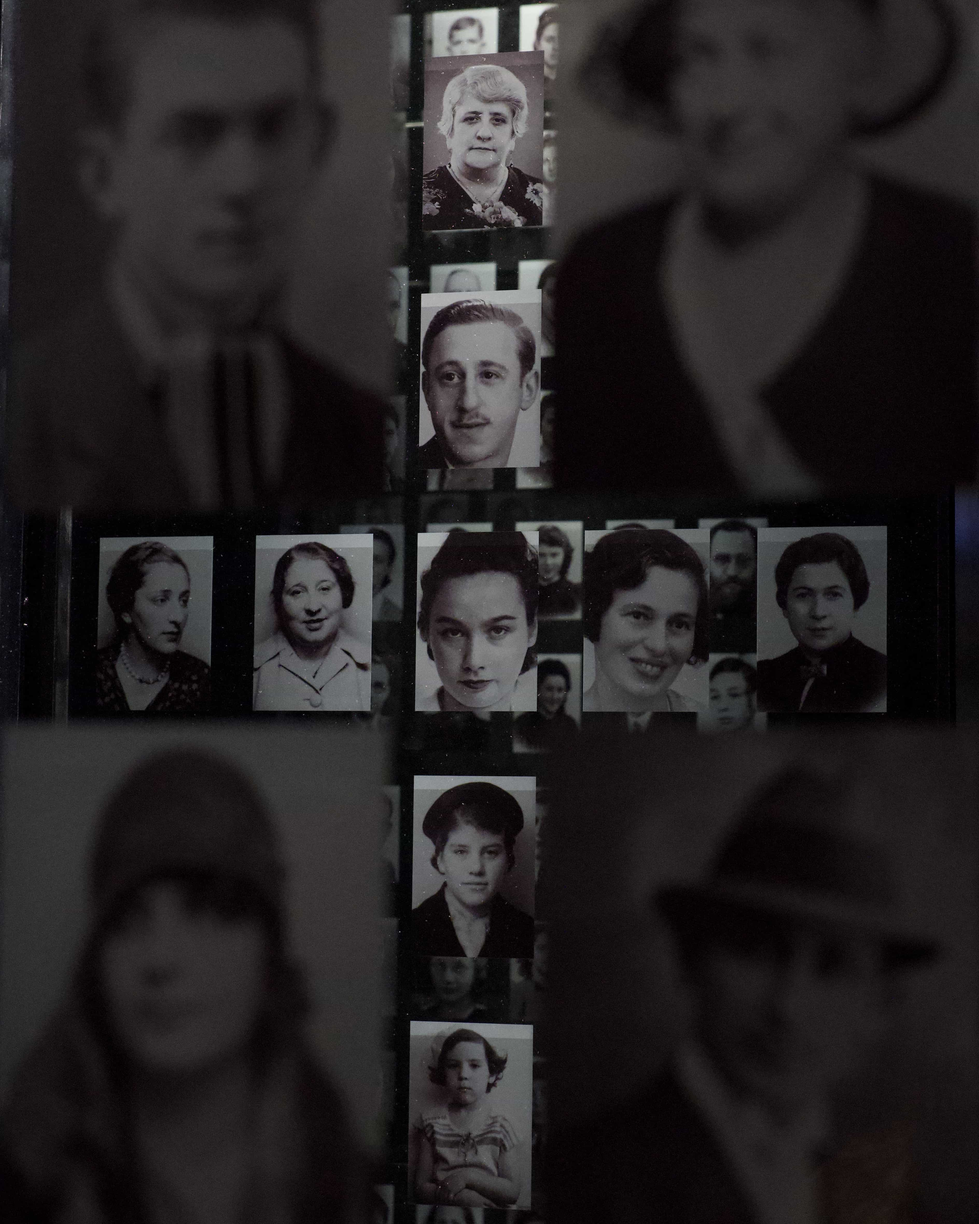
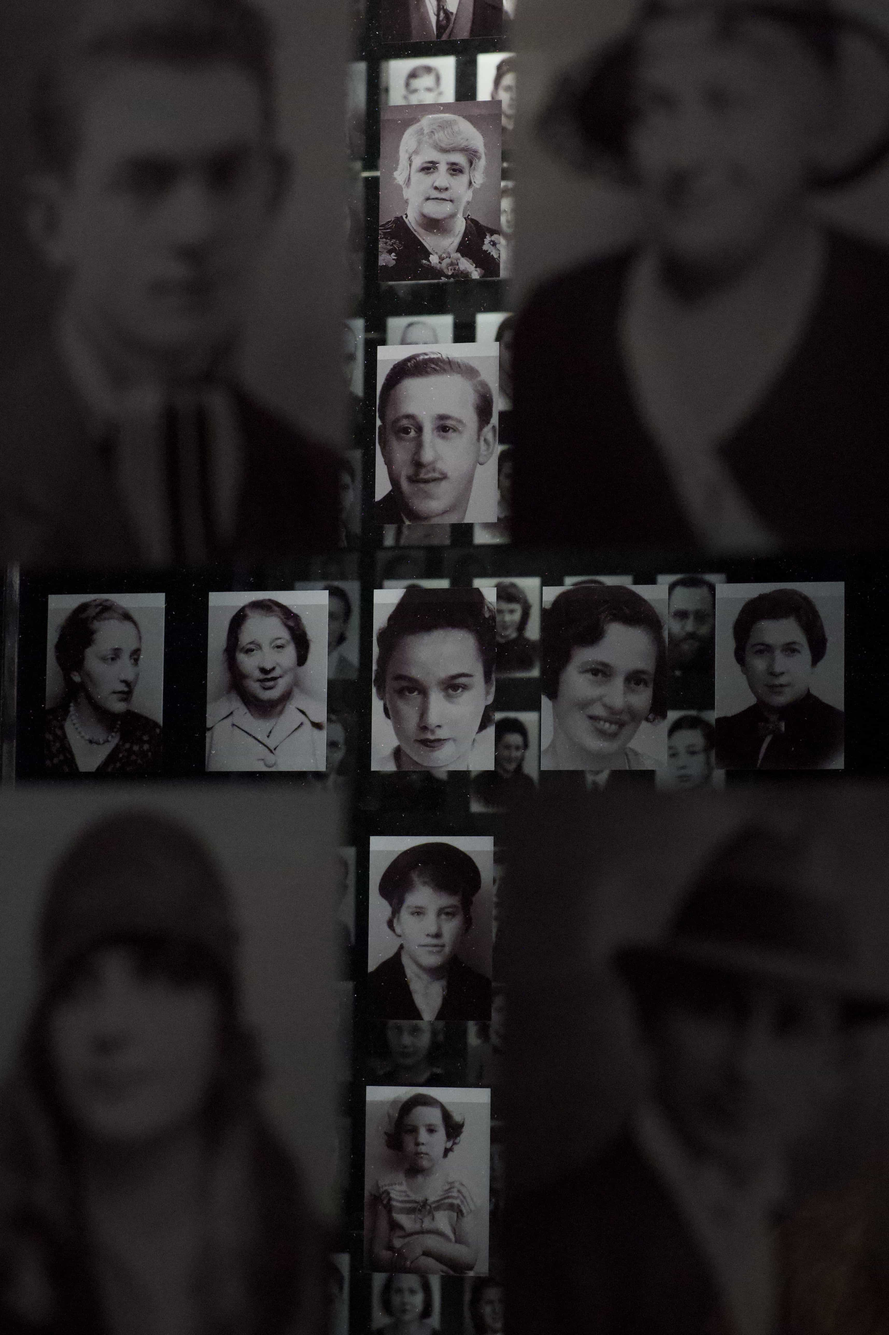
Showcase image change

diff --git a/public/index.html b/public/index.html
@@ -177,12 +177,87 @@
                     
                         
                         <a
+                            href="/showcase/IMG01801.jpg"
+                            data-pswp-width="4017"
+                            data-pswp-height="5019"
+                            target="_blank"
+                        >
+                            <img src='/showcase/thumbnails/IMG01801.jpg' alt="IMG01801.jpg" loading="lazy"/>
+                            <span class="pswp-caption-content">
+                                
+                                    
+                                
+                            </span>
+                        </a>
+                    
+                        
+                        <a
+                            href="/showcase/IMG01951.jpg"
+                            data-pswp-width="4573"
+                            data-pswp-height="3048"
+                            target="_blank"
+                        >
+                            <img src='/showcase/thumbnails/IMG01951.jpg' alt="IMG01951.jpg" loading="lazy"/>
+                            <span class="pswp-caption-content">
+                                
+                                    
+                                
+                            </span>
+                        </a>
+                    
+                        
+                        <a
+                            href="/showcase/IMG02362.jpg"
+                            data-pswp-width="3652"
+                            data-pswp-height="5478"
+                            target="_blank"
+                        >
+                            <img src='/showcase/thumbnails/IMG02362.jpg' alt="IMG02362.jpg" loading="lazy"/>
+                            <span class="pswp-caption-content">
+                                
+                                    
+                                
+                            </span>
+                        </a>
+                    
+                        
+                        <a
                             href="/showcase/IMG03589.jpg"
                             data-pswp-width="5306"
                             data-pswp-height="2985"
                             target="_blank"
                         >
                             <img src='/showcase/thumbnails/IMG03589.jpg' alt="IMG03589.jpg" loading="lazy"/>
+                            <span class="pswp-caption-content">
+                                
+                                    
+                                
+                            </span>
+                        </a>
+                    
+                        
+                        <a
+                            href="/showcase/IMG04765.jpg"
+                            data-pswp-width="6192"
+                            data-pswp-height="4128"
+                            target="_blank"
+                        >
+                            <img src='/showcase/thumbnails/IMG04765.jpg' alt="IMG04765.jpg" loading="lazy"/>
+                            <span class="pswp-caption-content">
+                                
+                                    
+                                
+                            </span>
+                        </a>
+                    
+                        
+                        <a
+                            href="/showcase/IMG04889_landscape.jpg"
+                            data-pswp-width="6192"
+                            data-pswp-height="4128"
+                            target="_blank"
+                        >
+                            <img src='/showcase/thumbnails/IMG04889_landscape.jpg' alt="IMG04889_landscape.jpg" loading="lazy"/>
                             <span class="pswp-caption-content">
                                 
                                     
@@ -207,57 +282,12 @@
                     
                         
                         <a
-                            href="/showcase/IMG09386.jpg"
-                            data-pswp-width="6191"
-                            data-pswp-height="3481"
-                            target="_blank"
-                        >
-                            <img src='/showcase/thumbnails/IMG09386.jpg' alt="IMG09386.jpg" loading="lazy"/>
-                            <span class="pswp-caption-content">
-                                
-                                    
-                                
-                            </span>
-                        </a>
-                    
-                        
-                        <a
                             href="/showcase/IMG09415.jpg"
-                            data-pswp-width="3776"
-                            data-pswp-height="4720"
+                            data-pswp-width="3430"
+                            data-pswp-height="5148"
                             target="_blank"
                         >
                             <img src='/showcase/thumbnails/IMG09415.jpg' alt="IMG09415.jpg" loading="lazy"/>
-                            <span class="pswp-caption-content">
-                                
-                                    
-                                
-                            </span>
-                        </a>
-                    
-                        
-                        <a
-                            href="/showcase/IMG09563.jpg"
-                            data-pswp-width="2946"
-                            data-pswp-height="3929"
-                            target="_blank"
-                        >
-                            <img src='/showcase/thumbnails/IMG09563.jpg' alt="IMG09563.jpg" loading="lazy"/>
-                            <span class="pswp-caption-content">
-                                
-                                    
-                                
-                            </span>
-                        </a>
-                    
-                        
-                        <a
-                            href="/showcase/IMG09565.jpg"
-                            data-pswp-width="3291"
-                            data-pswp-height="4388"
-                            target="_blank"
-                        >
-                            <img src='/showcase/thumbnails/IMG09565.jpg' alt="IMG09565.jpg" loading="lazy"/>
                             <span class="pswp-caption-content">
                                 
                                     
@@ -282,12 +312,27 @@
                     
                         
                         <a
-                            href="/showcase/IMG09578.jpg"
-                            data-pswp-width="3975"
-                            data-pswp-height="5299"
+                            href="/showcase/IMG09638.jpg"
+                            data-pswp-width="3853"
+                            data-pswp-height="5139"
                             target="_blank"
                         >
-                            <img src='/showcase/thumbnails/IMG09578.jpg' alt="IMG09578.jpg" loading="lazy"/>
+                            <img src='/showcase/thumbnails/IMG09638.jpg' alt="IMG09638.jpg" loading="lazy"/>
+                            <span class="pswp-caption-content">
+                                
+                                    
+                                
+                            </span>
+                        </a>
+                    
+                        
+                        <a
+                            href="/showcase/IMG09997.jpg"
+                            data-pswp-width="2858"
+                            data-pswp-height="3572"
+                            target="_blank"
+                        >
+                            <img src='/showcase/thumbnails/IMG09997.jpg' alt="IMG09997.jpg" loading="lazy"/>
                             <span class="pswp-caption-content">
                                 
                                     
